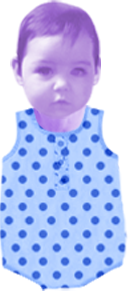
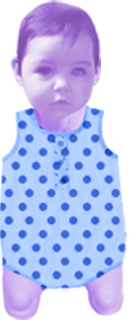
Change baby legs rotation point / Form button animation on click (it didin't update on new question 😢

diff --git a/app/components/babiesboard/Baby.js b/app/components/babiesboard/Baby.js
@@ -46,7 +46,7 @@ export default class Baby extends React.Component {
 				resistance: 10,
 				minSpeed: 200,
 				endSpeed: 100,
-				smoothEndDuration: 100
+				smoothEndDuration: 100,
 			},
 			restrict: {
 				restriction: 'parent',
@@ -54,6 +54,7 @@ export default class Baby extends React.Component {
 			},
 			onmove: this.onDragListener.bind(this),
 			onend: this.onDragStop.bind(this),
+			pointerMoveTolerance: 10
 		})
 	}
 
@@ -110,22 +111,6 @@ export default class Baby extends React.Component {
 		this.setState({
 			isDragging: false
 		})
-
-		/*
-		var target = event.target,
-		    // keep the dragged position in the data-x/data-y attributes
-		    x = (parseFloat(target.getAttribute('data-x')) || baseX) + event.dx,
-		    y = (parseFloat(target.getAttribute('data-y')) || baseY) + event.dy;
-
-		// translate the element
-		target.style.webkitTransform =
-		target.style.transform =
-		  'translate(' + (x) + 'px, ' + (y) + 'px)';
-
-		// update the posiion attributes
-		target.setAttribute('data-x', x);
-		target.setAttribute('data-y', y);
-		*/
 	}
 
 	setBabySpec(){
@@ -160,19 +145,6 @@ export default class Baby extends React.Component {
 	        zIndex: pos.y
 	      }
 	    )
-	}
-
-	getRotationAngle(direction) {
-		
-		// var test = direction % 2
-		
-		// if(direction < 0) {
-		// 	var rotateAngle = "-" + (test * direction) / 100	
-		// } else {
-		// 	var rotateAngle = (test * direction) / 100
-		// }
-		
-		return direction
 	}
 
 	rotateBaby(direction, rotateAngleLimit) {
@@ -226,13 +198,9 @@ export default class Baby extends React.Component {
         		break;
         	default:
         		this.setState({
-        			skin: "jaune.png"
+        			skin: "orange.png"
         		})
         }
-	}
-
-	getRandomNumber(limitInf, limitSup) {	
-		return Math.floor(Math.random() * (limitSup-limitInf+1)+limitInf)
 	}
 
 	handleMouseEnter(e, id) {
@@ -248,10 +216,6 @@ export default class Baby extends React.Component {
 		let babyDatas = this.props.datas
 		this.props.setDetailIsDisplayedProps(true)
 		this.props.setBabyDetail(babyDatas)
-	}
-
-	handleMouseUp(e) {
-		console.log('mouse up')
 	}
 
 	render() {
@@ -284,7 +248,6 @@ export default class Baby extends React.Component {
 			<div
 			className={babyClasses}
 			onMouseDown={this.handleMouseDown.bind(this)}
-			// onMouseUp={this.handleMouseUp.bind(this)}
 			onMouseEnter={this.handleMouseEnter.bind(this, id)}
 			onMouseLeave={this.handleMouseLeave.bind(this)}
 			id={id}

diff --git a/app/components/GUI/Footer.js b/app/components/GUI/Footer.js
@@ -8,29 +8,24 @@ export default class Footer extends React.Component {
 
     render() {
         return(
-            <Draggable
-                axis="both"
-                handle="footer"
-                bounds={{top: -100, left: 0, right: 100, bottom: 0}}>
-                <footer className="main-footer">
-                    <div className="logo">
-                        <img src="/images/logo.png" alt=""/>
+            <footer className="main-footer">
+                <div className="logo">
+                    <img src="/images/logo.png" alt=""/>
+                </div>
+                <div className="misc">
+                    <div className="misc--buttons">
+                        <button className="primary">
+                            Partager
+                        </button>
+                        <button className="secondary">
+                            Infos
+                        </button>
                     </div>
-                    <div className="misc">
-                        <div className="misc--buttons">
-                            <button className="primary">
-                                Partager
-                            </button>
-                            <button className="secondary">
-                                Infos
-                            </button>
-                        </div>
-                        <div className="misc--copyright">
-                            <p>Crédits / © Copyright 2016 - <a target="blank" href="http://www.synerghetic.net/">SynergHetic.net</a></p>
-                        </div>
+                    <div className="misc--copyright">
+                        <p>Crédits / © Copyright 2016 - <a target="blank" href="http://www.synerghetic.net/">SynergHetic.net</a></p>
                     </div>
-                </footer>
-            </Draggable>
+                </div>
+            </footer>
         );
     }
 }

diff --git a/styles/components/babies.scss b/styles/components/babies.scss
@@ -90,8 +90,8 @@
                 position: absolute;
                 width: 100px;
                 top: 0;
-                bottom: 55px;
-                left: 50%;
+                bottom: 40px;
+                left: 51%;
                 transform: translate3d(-50%, 0, 0);
                 text-align: center;
                 z-index: 2;
@@ -100,20 +100,6 @@
                     height: 100%;
                     width: auto;
                 }
-            }
-            span.baby-arm-right {
-                left: 25px;
-                transform-origin: 100% 0%; 
-            }
-            span.baby-arm-left {
-                right: 25px;
-                transform-origin: 0% 0%;
-            }
-            span.baby-leg-right {
-                left: 66px;
-            }
-            span.baby-leg-left {
-                right: 36px;
             }
 
             span.baby-arm-right,
@@ -133,11 +119,29 @@
                 position: absolute;
                 bottom: 0;
                 width: 60px;
-                height: 80px;
+                height: 60px;
+                transform-origin: 50% 0%;
+                // transition: transform .1s ease;
                 img {
                     height: 100%;
                     width: auto;
                 }
+            }
+
+            span.baby-arm-right {
+                left: 25px;
+                top: 53px;
+                transform-origin: 100% 0%; 
+            }
+            span.baby-arm-left {
+                right: 25px;
+                transform-origin: 0% 0%;
+            }
+            span.baby-leg-right {
+                left: 71px;
+            }
+            span.baby-leg-left {
+                right: 27px;
             }
         }
 

diff --git a/app/components/form/AnswerItem.js b/app/components/form/AnswerItem.js
@@ -1,12 +1,32 @@
 import React from 'react'
 
+var classNames = require('classnames')
+
 export default class AnswerItem extends React.Component {
 	constructor() {
 		super()
+
+		this.state = {
+			isClicked: false,
+		}
+	}
+
+	componentDidMount() {
+		this.setState({
+			isClicked: false
+		})
 	}
 
 	handleAnswer() {
-		this.props.setNextQuestionId(this.props.answer.nextQuestionId)
+		var that = this
+
+		this.setState({
+			isClicked: true
+		})
+
+		setTimeout(function() {
+			that.props.setNextQuestionId(that.props.answer.nextQuestionId)
+		}, 300)
 	}
 
 	render() {
@@ -26,13 +46,20 @@ export default class AnswerItem extends React.Component {
 				break;
 		}
 
+		var answerClasses = classNames({
+			'key': true,
+			'selected': this.state.isClicked,
+		})
+
 		return(
 			<div
 				className="form--answers--item"
 				ref={this.props.answer.id}
 				onClick={this.handleAnswer.bind(this)}
 				>
-				<button className="key">
+				<button 
+					ref="itSelf"
+					className={answerClasses}>
 					<span className="key--content">{char}</span>
 					<span className="key--double"></span>
 				</button>

diff --git a/styles/components/home-interface.scss b/styles/components/home-interface.scss
@@ -159,9 +159,10 @@ nav.controls {
     position: absolute;
     display: flex;
     align-items: flex-end;
-    bottom: 20px;
-    right: 20px;
-    height: 65px; 
+    bottom: 0;
+    right: 0;
+    height: 90px; 
+    padding: 0 20px 20px 0;
     z-index: 10;
     overflow: hidden;
 
@@ -175,7 +176,7 @@ nav.controls {
         transition: transform .3s ease-in-out;
 
         &.hidden {
-            transform: translate3d(0, 150%, 0);
+            transform: translate3d(0, 100px, 0);
         }
 
         > button {
@@ -183,7 +184,10 @@ nav.controls {
 
             &:hover { 
                 cursor: default;
-                span.key--content { transform: translate3d(0, 0, 0); }
+                span.key--content { 
+                    transform: translate3d(0, 0, 0);
+                    background-color: $light;
+                }
             }
 
             &.arrow-top {

diff --git a/styles/config/commons.scss b/styles/config/commons.scss
@@ -12,6 +12,13 @@ div, span, button {
 
 p { font-family: $font-m1mregular; }
 
+.disable-select {
+    -webkit-user-select: none;  
+        -moz-user-select: none;    
+            -ms-user-select: none;      
+                user-select: none;
+}
+
 button.key {
     display: inline-block;
     position: relative;
@@ -57,7 +64,8 @@ button.key {
 
     &:hover {
         span.key--content {
-            transform: translate3d(0,4px,0);
+            // transform: translate3d(0,4px,0);
+            background-color: $yellow;
         }
     }
 

diff --git a/app/components/form/Form.js b/app/components/form/Form.js
@@ -54,7 +54,7 @@ export default class Form extends React.Component {
             .get("/json/questions.json")
             .then((xhr, response) => {
                 this.setState({
-                    questions: response
+                    questions: response.questions
                 })
             });
     }

diff --git a/app/components/babiesboard/HomeTitle.js b/app/components/babiesboard/HomeTitle.js
@@ -29,7 +29,7 @@ export default class HomeTitle extends React.Component {
 
 		return(
 			<div 
-			className="title-container"
+			className="title-container disable-select"
 			style={titleStyle}
 			ref="homeTitle">
 				<h1><span>Aujourd'hui, synerg'hetic compte 164 enfants du web !</span></h1>

diff --git a/styles/components/form.scss b/styles/components/form.scss
@@ -124,7 +124,7 @@ section.form {
             }
         }
 
-        &:hover, &.selected {
+        &.selected {
             button.key > span.key--content {
                 transform: translate3d(0,4px,0);
             }
